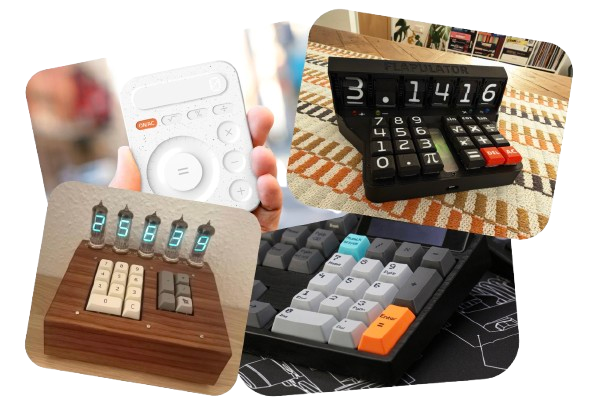
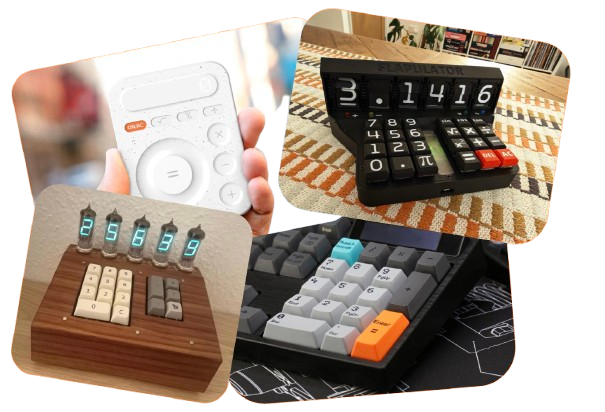
add animations

diff --git a/index.html b/index.html
@@ -31,13 +31,13 @@
 
 <body>
 
-    <a href="https://hackclub.com"><img src="https://assets.hackclub.com/flag-orpheus-top.svg" class="fixed w-[15vw] hover:scale-110"></img></a>
+    <a href="https://hackclub.com"><img src="https://assets.hackclub.com/flag-orpheus-top.svg" class="fixed w-[15vw] hover:scale-110 transition-transform duration-200"></img></a>
 
     <div class="flex flex-col items-center  -z-10 inset-0 w-full
     bg-[linear-gradient(to_right,#73737320_1px,transparent_1px),linear-gradient(to_bottom,#73737320_1px,transparent_1px)]
     bg-[size:20px_20px] min-h-[60vh] p-8 justify-between">
         <p>A YSWS from Hack Club, run by Nirvaan and Arcade!</p>
-        <img src="assets/logo.png" class="w-1/2"></img>
+        <img src="assets/logo.png" class="w-1/2 hover:scale-105 transition-transform-duration-200"></img>
         <p class="font-sans">you ship a cool calculator (hardware), we ship your hardware & exclusive stickers!</p>
 
         <div class="flex gap-4 items-center justify-center">
@@ -62,7 +62,7 @@
             <p>We'll give you a grant card to buy hardware, with $5 per hour you work on your project! You'll also recieve a collection of exclusive stickers!</p>
 
         </div>
-        <img src="assets/calculators.png"></img>
+        <img src="assets/calculators.png" class="hover:scale-105 hover:rotate-2 transition-transform duration-200"></img>
     </div>
 
     <div class="flex flex-col items-center  -z-10 inset-0 w-full
